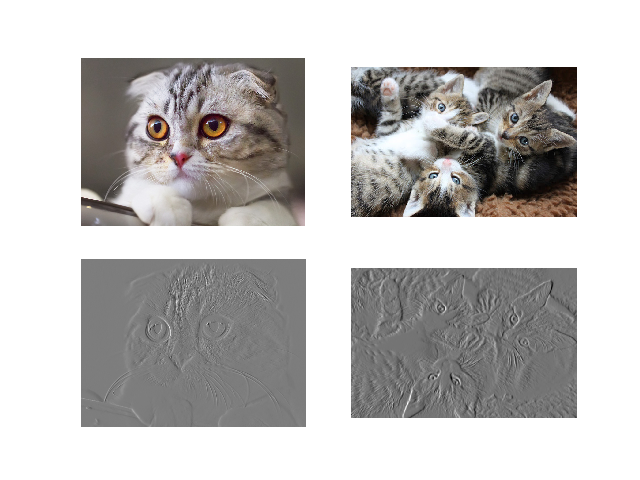
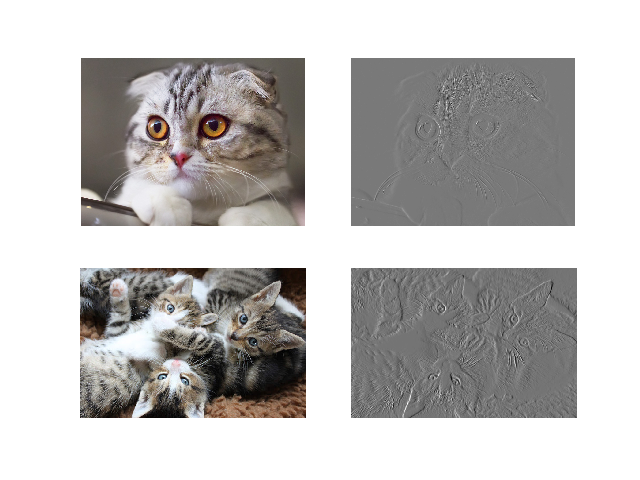
Update docs, extends #4

Changed region(s): [[0.125, 0.5312, 0.5, 0.9062], [0.5312, 0.0938, 0.9062, 0.4688]]

diff --git a/examples/example.py b/examples/example.py
@@ -3,7 +3,7 @@ import os
 os.chdir("pyautocv")
 # gray images
 images_list = Segmentation("images/dic", image_suffix="tif", color_mode="gray")
-show_images(images_list.read_images(), images_list.read_images(), number=10)
+show_images(images_list.read_images(), images_list.read_images(), number=4)
 # smooth images
 show_images(images_list.read_images(), images_list.smooth())
 # use median
@@ -19,7 +19,7 @@ show_images(images_list.read_images(), images_list.threshold_images(threshold_me
 
 # threshold
 cats = Segmentation("images/cats")
-show_images(cats.read_images(), cats.threshold_images(threshold_method="binary_inverse"))
+show_images(cats.read_images(), cats.threshold_images(threshold_method="binary_inverse"), number=4)
 
 images_list_gray_mode=Segmentation("images/dic", image_suffix ="tif", color_mode = "gray")
 # no need to gray them since they are already gray
@@ -27,17 +27,29 @@ show_images(images_list_gray_mode.read_images(), images_list_gray_mode.threshold
 
 # biology
 to_threshold = Segmentation("images/biology")
-show_images(to_threshold.read_images(), to_threshold.threshold_images())
-show_images(to_threshold.read_images(), to_threshold.threshold_images(threshold_method="otsu"))
+show_images(to_threshold.read_images(), to_threshold.threshold_images(), number=4)
+show_images(to_threshold.read_images(), to_threshold.threshold_images(threshold_method="otsu"), number = 4)
 # houses
 images_list = Segmentation("images/houses")
 
-show_images(images_list.read_images(), images_list.threshold_images(threshold_method="thresh_to_zero"))
+show_images(images_list.read_images(), images_list.threshold_images(threshold_method="thresh_to_zero"), number=4)
 # random
 images_list = Segmentation("images")
-show_images(images_list.read_images(), images_list.detect_edges())
+show_images(images_list.read_images(), images_list.detect_edges(), number=4)
 
 # potholes
 images_list = Segmentation("images/potholes")
+
+show_images(images_list.read_images(), images_list.threshold_images("binary"), number=4)
+
+# people
+people = Segmentation("images/people")
+show_images(people.read_images(), people.threshold_images(threshold_method="binary_inverse"), number=4)
+
+images_list_gray_mode=Segmentation("images/dic", image_suffix ="tif", color_mode = "gray")
+# no need to gray them since they are already gray
+show_images(images_list_gray_mode.read_images(), images_list_gray_mode.threshold_images(), number = 4)
+
+images_list=Segmentation("images/potholes")
 
 show_images(images_list.read_images(), images_list.threshold_images("binary"))

diff --git a/pyautocv/segmentation.py b/pyautocv/segmentation.py
@@ -162,13 +162,10 @@ def show_images(original_images=None, processed_images=None, cmap="gray", number
     if original_images is None or processed_images is None:
         raise ValueError("Both original and processed image lists are required.")
     if number is not None:
-        original_images =original_images[:number]
+        original_images = original_images[:number]
         processed_images = processed_images[:number]
 
-    image_list = list(chain(original_images, processed_images))
-
-
-
+    image_list = list(chain(*zip(original_images, processed_images)))
 
     if len(image_list) % 2 == 0:
         ncols = len(image_list) / 2
@@ -176,7 +173,6 @@ def show_images(original_images=None, processed_images=None, cmap="gray", number
         ncols = len(image_list)
 
     fig, axes = plt.subplots(nrows=2, ncols=int(ncols))
-
     for ind, image in enumerate(image_list):
         axes.ravel()[ind].imshow(image_list[ind], cmap=cmap)
         axes.ravel()[ind].set_axis_off()

diff --git a/README.md b/README.md
@@ -13,7 +13,7 @@
 
 **Project Aims**
 
-The goal of pyautocv is to provide a simple computer vision(cv) workflow that enables one to automate 
+The goal of `pyautocv` is to provide a simple computer vision(cv) workflow that enables one to automate 
 or at least reduce the time spent in image (pre)-processing. 
 
 **Installing the package**
@@ -37,7 +37,7 @@ python3 setup.py install
 
 ```
 
-**Available Class**
+**Available Classes**
 
 * Segmentation is a super class on which other classes build
 
@@ -58,7 +58,7 @@ To grey an image directory:
 from pyautocv.segmentation import *
 
 images_list=Segmentation("images/cats")
-show_images(gray_images(images_list.read_images()), images_list.read_images())
+show_images(gray_images(images_list.read_images()), images_list.read_images(), number=2)
 
 ```
 ![Grayed](sample_results/cats_gray.png)
@@ -69,10 +69,11 @@ To smooth a directory of images, we can use `EdgeDetection`'s `smooth` method as
 follows:
 
 ```python
+
 from pyautocv.segmentation import *
 
 images_list=Segmentation("images/cats")
-show_images(gray_images(images_list.read_images()), images_list.read_images())
+show_images(images_list.smooth(), images_list.read_images(),number=2)
 
 ```
 
@@ -129,7 +130,7 @@ To use a different filter e.g Laplace,
 
 ```
 
-show_images(edge_detection.read_images(), edge_detection.detect_edges(operator="laplace", mask="gaussian", sigma=0))
+show_images(images_list.read_images(), images_list.detect_edges(operator="laplace", mask="gaussian", sigma=0))
 
 ```
 
@@ -169,7 +170,7 @@ For cat lovers, here's thresholding with inverse binary:
 
 ```python
 
-show_images(to_threshold.read_images(),to_threshold.threshold_images(threshold_method="binary_inverse"))
+show_images(images_list.read_images(),images_list.threshold_images(threshold_method="binary_inverse"))
 
 ```
 

diff --git a/README.rst b/README.rst
@@ -59,7 +59,7 @@
 
 **Project Aims**
 
-The goal of pyautocv is to provide a simple computer vision(cv) workflow that enables one to automate 
+The goal of ``pyautocv`` is to provide a simple computer vision(cv) workflow that enables one to automate 
 or at least reduce the time spent in image (pre)-processing. 
 
 **Installing the package**
@@ -82,7 +82,7 @@ From GitHub
    cd pyautocv
    python3 setup.py install
 
-**Available Class**
+**Available Classes**
 
 
 * 
@@ -106,7 +106,7 @@ To grey an image directory:
    from pyautocv.segmentation import *
 
    images_list=Segmentation("images/cats")
-   show_images(gray_images(images_list.read_images()), images_list.read_images())
+   show_images(gray_images(images_list.read_images()), images_list.read_images(), number=2)
 
 
 .. image:: sample_results/cats_gray.png
@@ -122,10 +122,11 @@ follows:
 
 .. code-block:: python
 
+
    from pyautocv.segmentation import *
 
    images_list=Segmentation("images/cats")
-   show_images(gray_images(images_list.read_images()), images_list.read_images())
+   show_images(images_list.smooth(), images_list.read_images(),number=2)
 
 This will give us:
 
@@ -190,7 +191,7 @@ To use a different filter e.g Laplace,
 .. code-block::
 
 
-   show_images(edge_detection.read_images(), edge_detection.detect_edges(operator="laplace", mask="gaussian", sigma=0))
+   show_images(images_list.read_images(), images_list.detect_edges(operator="laplace", mask="gaussian", sigma=0))
 
 This results in:
 
@@ -236,7 +237,7 @@ For cat lovers, here's thresholding with inverse binary:
 .. code-block:: python
 
 
-   show_images(to_threshold.read_images(),to_threshold.threshold_images(threshold_method="binary_inverse"))
+   show_images(images_list.read_images(),images_list.threshold_images(threshold_method="binary_inverse"))
 
 Result:
 

diff --git a/changelog.rst b/changelog.rst
@@ -2,6 +2,21 @@
 pyautocv's change log
 =====================
 
+**pyautocv 0.2.2**
+
+
+* 
+  ``show_images`` now shows image side by side which is more intuitive. 
+
+* 
+  Added support for different color modes i.e either grayscale or rgb images
+
+* 
+  Added support for tiff(\ ``.tif``\ ) images
+
+* 
+  ``show_images`` is now more customizable with respect to the number of images one would like to show. 
+
 **pyautocv 0.2.1**
 
 **Major Changes**

diff --git a/changelog.md b/changelog.md
@@ -2,6 +2,8 @@
 
 **pyautocv 0.2.2**
 
+- `show_images` now shows image side by side which is more intuitive. 
+
 - Added support for different color modes i.e either grayscale or rgb images
 
 - Added support for tiff(`.tif`) images
